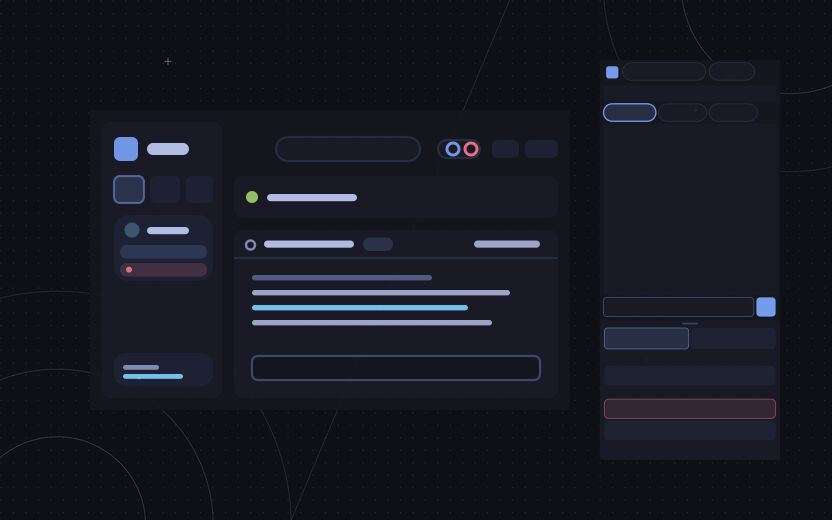
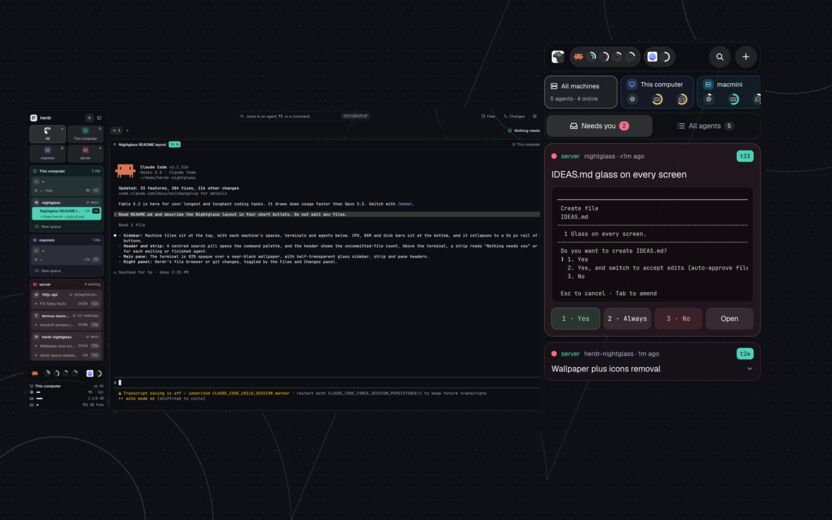
herdr-nightglass: picture made from the desktop and phone screenshots over the wallpaper

diff --git a/scripts/pictures/SOURCES.md b/scripts/pictures/SOURCES.md
@@ -22,7 +22,7 @@ does not print black. `[0]` on the source file selects a GIF's first frame.)
 | `btop.jpg` | a frame of the same screen recording as `hero/btop.png`: this build of btop running on a phone through the privileged lane | btop is Apache-2.0 licensed; the screenshot is this repository's own |
 | `herdr.jpg` | `assets/screenshot.png` in [herdrdev/herdr](https://github.com/herdrdev/herdr) at `7b116c05bfda646af39d2524c54e70c751f57ee8` (tag `v0.9.3`), cropped to the terminal window (`-crop 1566x980+177+48` on the 1920x1080 original) before the usual conversion, since the desktop around it is wasted width on a phone | herdr is Apache-2.0 licensed |
 | `herdr-gui.jpg` | `assets/og-herdr.png` on [herdr.dev](https://herdr.dev/) (the site's own social preview, fetched 2026-11-09; the desktop app has no screenshot in [herdrdev/herdr-app](https://github.com/herdrdev/herdr-app)), cropped to the app window (`-crop 480x510+720+120` on the 1200x630 original) before the usual conversion, leaving out the headline and wordmark beside it | herdr-app is Apache-2.0 licensed; the site states no separate terms for its images |
-| `herdr-nightglass.jpg` | composed from [PickleHik3/herdr-nightglass](https://github.com/PickleHik3/herdr-nightglass) at `ce590328803d16892db366521d5f8bac76c4e4ed`: `mods/nightglass/wallpaper.png` resized to 832x520, with the layout previews `layouts/nightglass.svg` (rendered 480 px wide, `rsvg-convert`, 92% opacity, at +90+110) and `layouts/nightglass-phone.svg` (400 px tall, 95%, at +600+60) laid over it with `magick ... -composite`, written at quality 80; the repository has no screenshot, and none of a device is used | herdr-nightglass is MIT licensed (the store maintainer's own repository) |
+| `herdr-nightglass.jpg` | composed from [PickleHik3/herdr-nightglass](https://github.com/PickleHik3/herdr-nightglass) at `25aebe5ad1b0258eacf49f098c23ca538e72eedf`: its own screenshots `nightglass/preview.png` (the desktop layout, 1600x870) and `nightglass-phone/preview.png` (the phone inbox, 1032x2018) over `mods/nightglass/wallpaper.png` (2560x1600), with `magick wallpaper.png -background "#1e1e1e" -flatten -resize 832x520^ -gravity center -extent 832x520 \( desktop.png -resize 560x \) -gravity northwest -geometry +24+108 -composite \( phone.png -resize x440 \) -geometry +540+40 -composite -quality 80 herdr-nightglass.jpg`; no screenshot of a device is used | herdr-nightglass is MIT licensed (the store maintainer's own repository) |
 | `tuios.jpg` | frame 244 of `assets/tuios.gif` in [Gaurav-Gosain/tuios](https://github.com/Gaurav-Gosain/tuios) at tag `v0.10.1` (`magick assets/tuios.gif -coalesce +adjoin f_%03d.png`, then `f_244.png`: tiled panes, the session rail and an agent marked as working), the usual conversion; the repository's `assets/brand/banner-*.png` is a wide 4:1 banner whose screenshot text is too small at phone width | tuios is MIT licensed (the repository's `LICENSE` covers the whole tree and states no separate terms for `assets/`) |
 | `terminal-browser.jpg` | a screenshot of this build of terminal-browser on a phone (Pong, 2026-10-12), Wikipedia's "Terminal emulator" article open in the launcher's terminal, cropped to the terminal pane (`-crop 1020x1100+30+252` on the 1080x2412 screen, leaving out the status bar, the dock and the keyboard) before the usual conversion | terminal-browser is MIT licensed; the screenshot is this repository's own (the page shown is Wikipedia's, CC BY-SA) |
 
